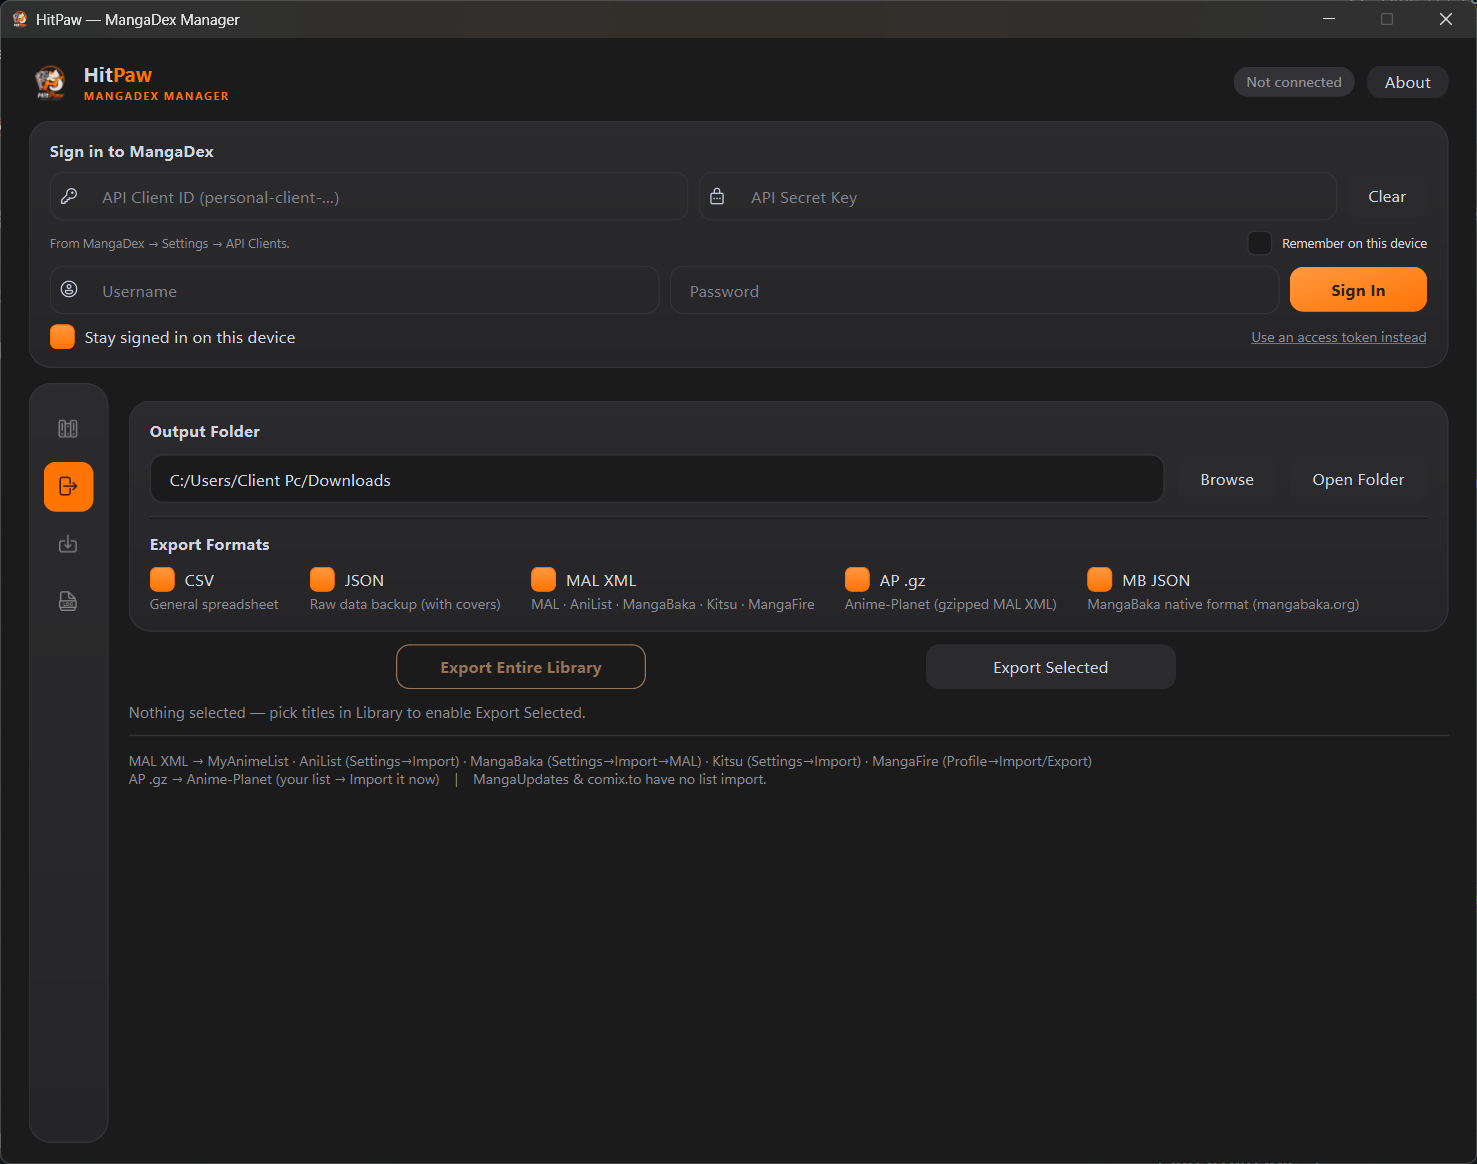
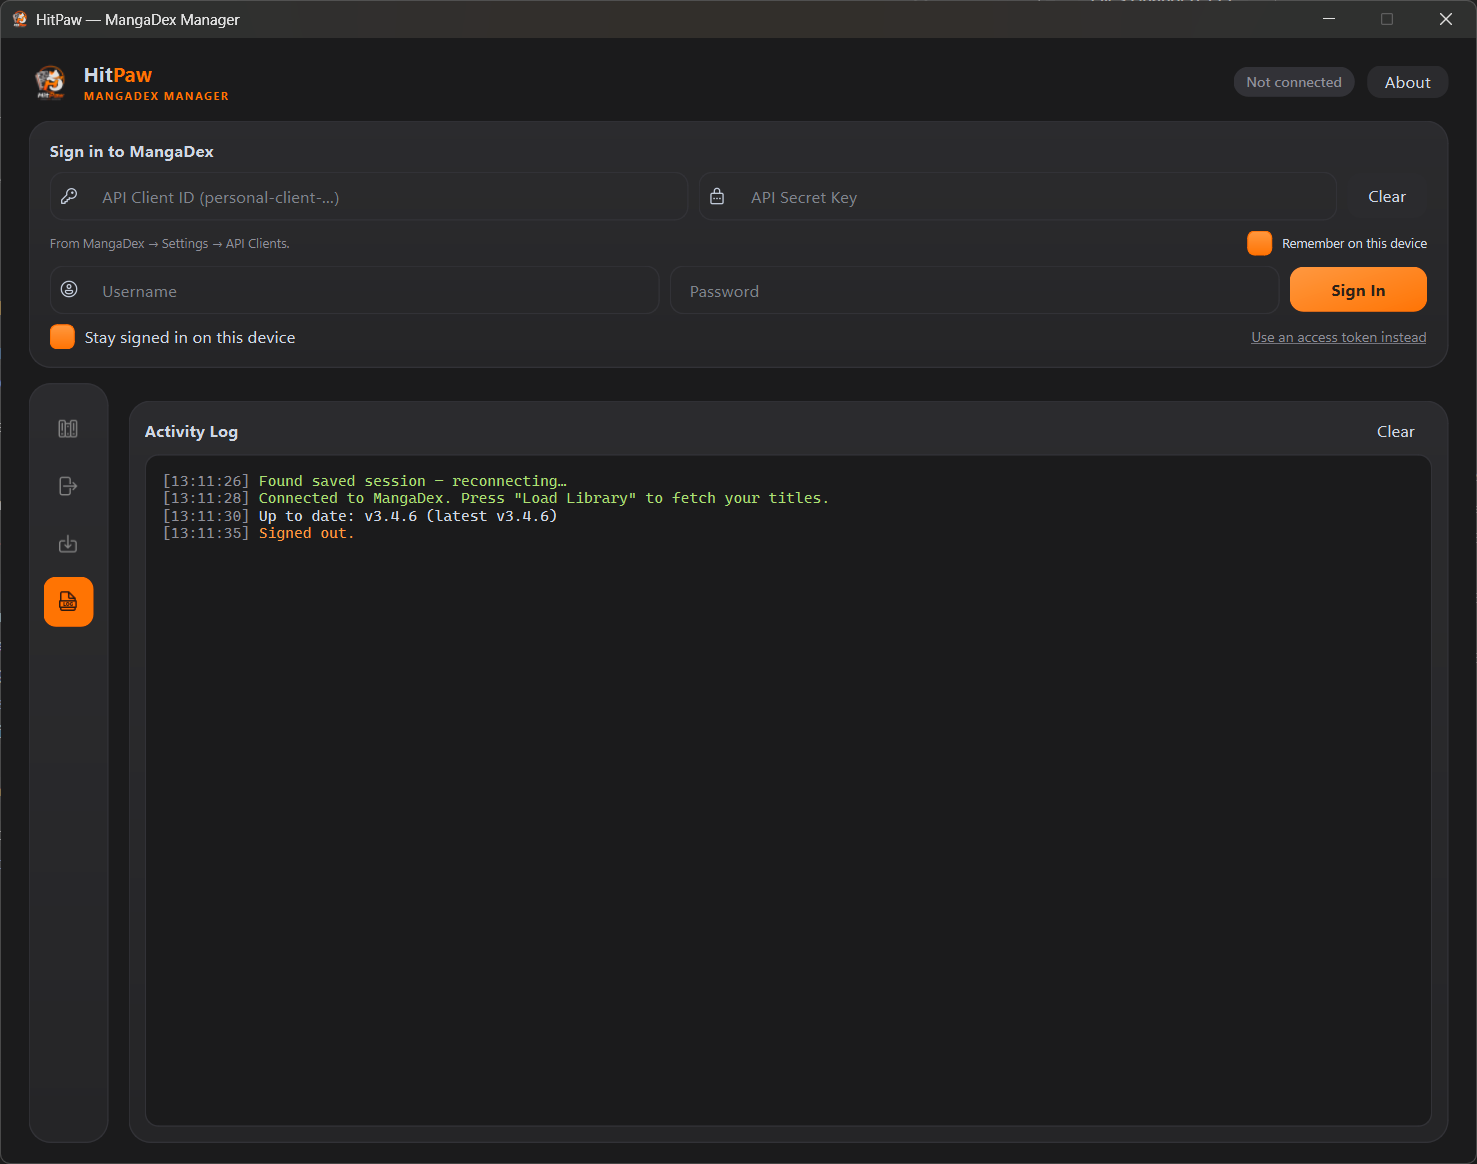
docs: update previews to exact user screenshots — Library Grid 3276 / Activity Log v3.4.6 / Export / Download

diff --git a/README.md b/README.md
@@ -12,10 +12,10 @@ A desktop app for browsing, filtering, and exporting your MangaDex library — b
 
 ## Preview
 
-![Login](screenshots/preview-1.png)
-![Library Grid — 3276 titles, 5 columns, Show All + Check for updates (v3.4.6)](screenshots/preview-2.png)
-![Export](screenshots/preview-3.png)
-![Settings](screenshots/preview-4.png)
+![Library Grid — 3276 titles, 5 columns, Show All + Check for updates (v3.4.6)](screenshots/preview-1.png)
+![Activity Log — Up to date v3.4.6, HitPaw icon](screenshots/preview-2.png)
+![Export — Output Folder & Formats](screenshots/preview-3.png)
+![Download — Paste URL & Chapters](screenshots/preview-4.png)
 
 > Preview updated for **v3.4.6** — grid density toggle removed, `Show All (N)` added, manual update popup now uses HitPaw icon.
 
